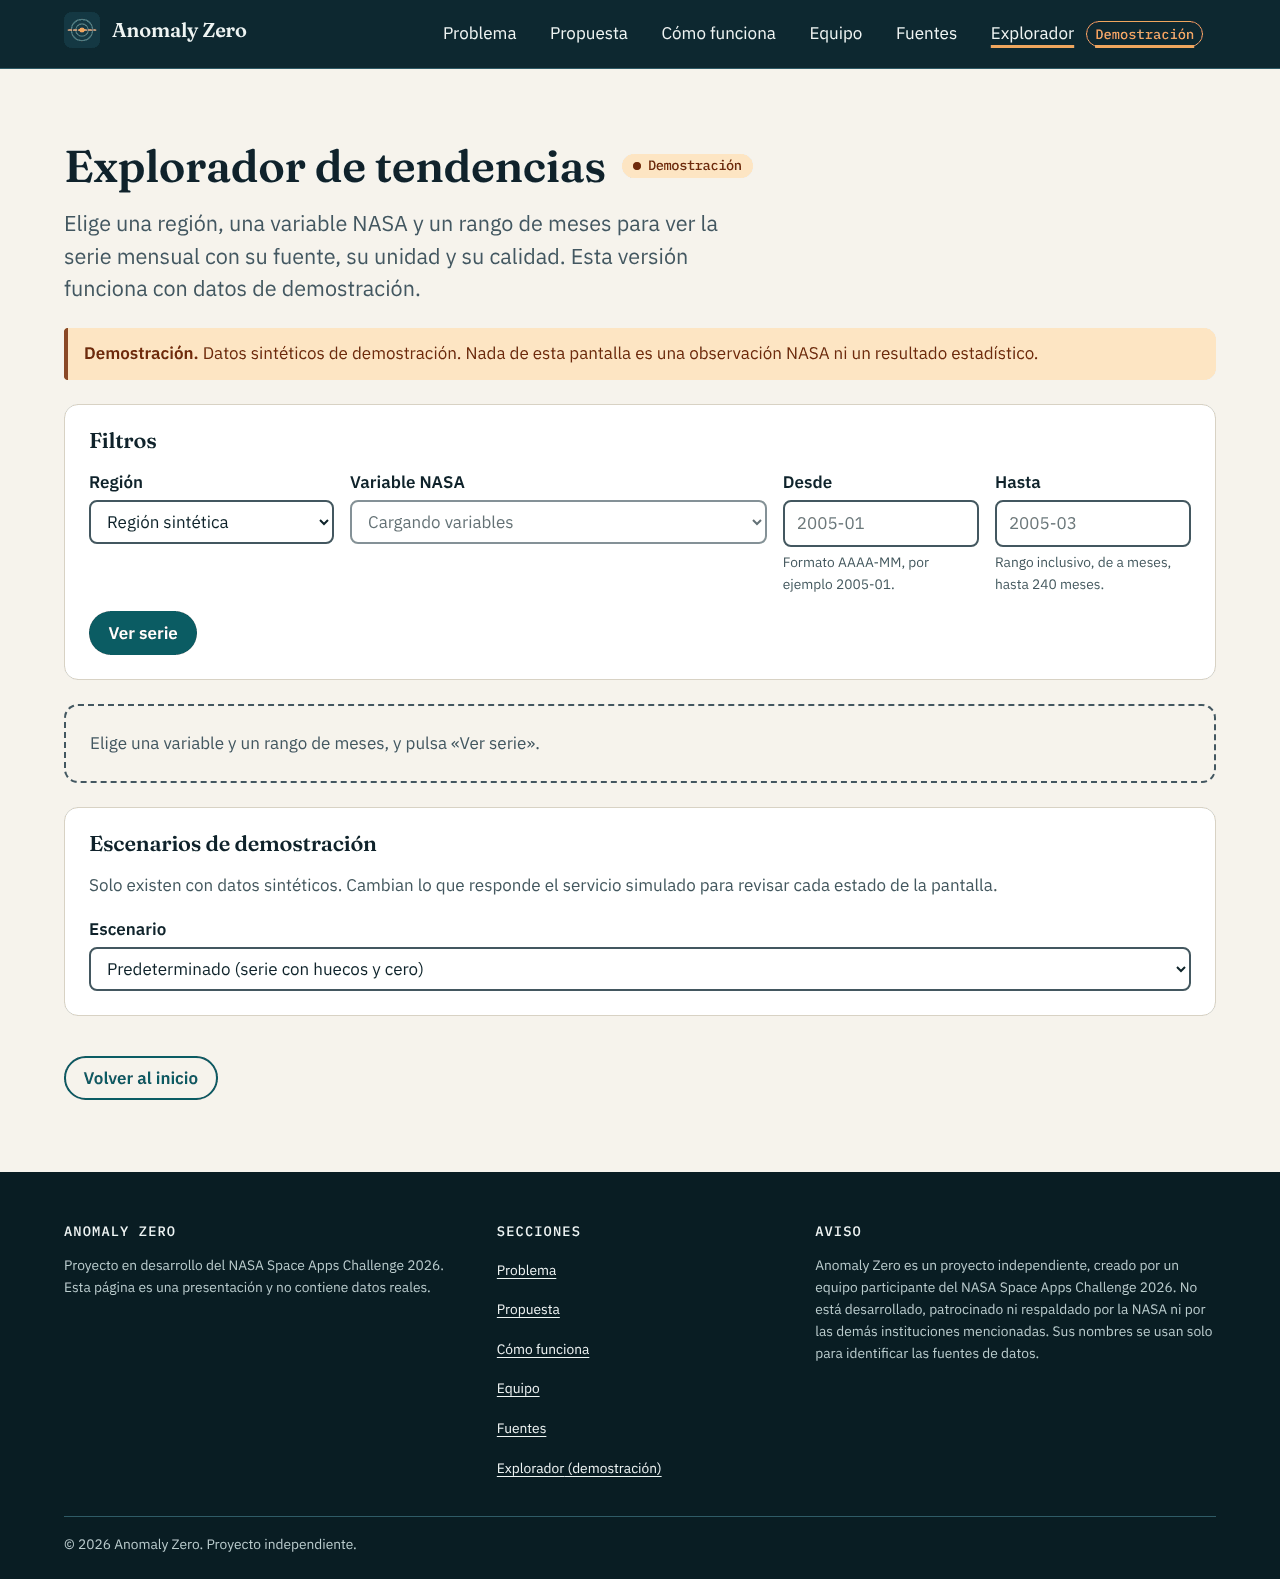
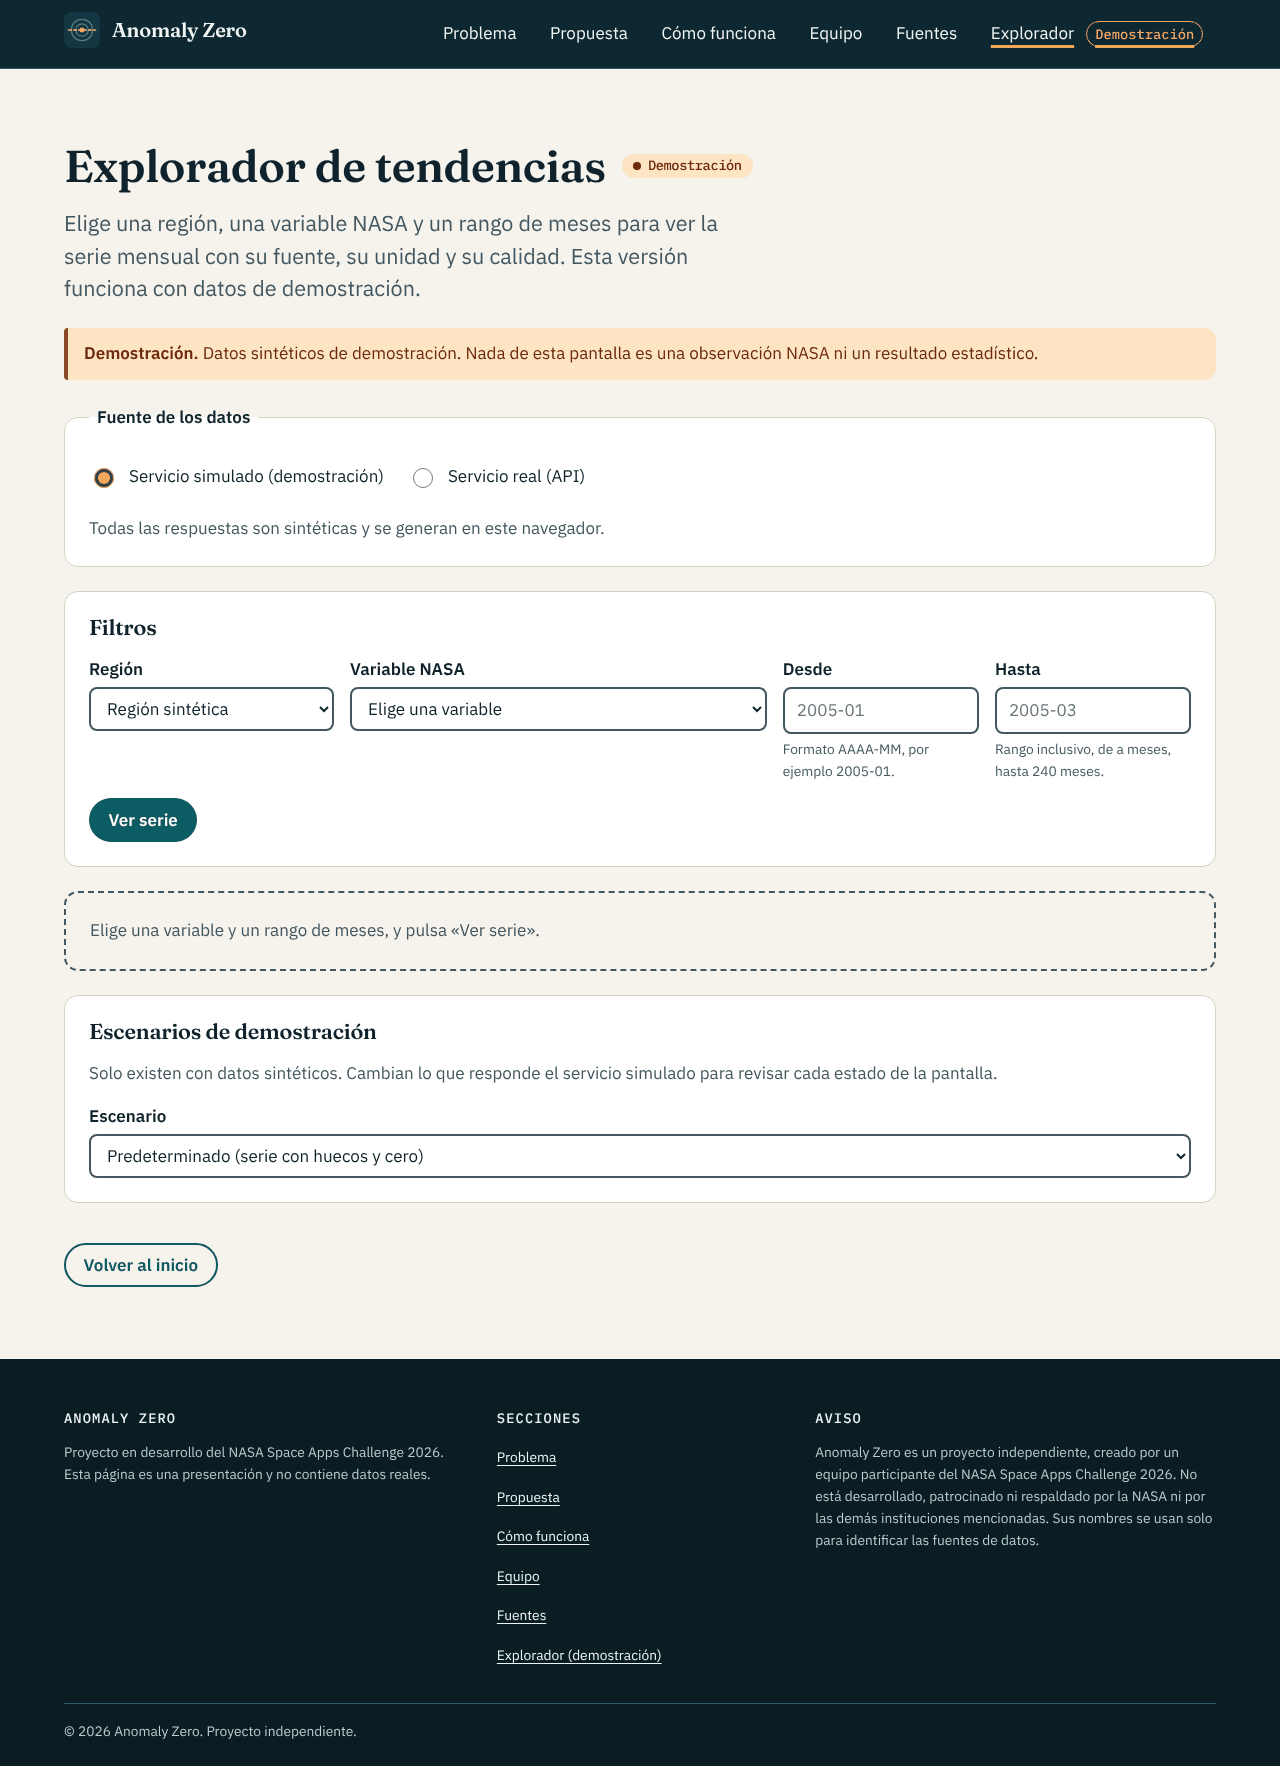
docs: FE-04 con fuente real, dos procesos, integracion y capturas actualizadas
Actualiza la guia (fuente simulada o real, comandos de dos procesos y proxy,
prueba de integracion, decisiones segun la tarjeta del 15-11, coordinacion con
FUL-130) y regenera las capturas, ahora tambien de la API real con y sin
snapshot y sin conexion.

Claude-Session: https://claude.ai/code/session_01BasWzmRWkbL87sk6JNERaq

diff --git a/docs/fe-04-explorer-implementacion.md b/docs/fe-04-explorer-implementacion.md
@@ -7,32 +7,73 @@ Este documento explica **qué se construyó**, **cómo se ejecuta**, **qué endp
 ## 1. Resumen
 
 - `/explore` es ahora una pantalla real dentro de la app React existente (no hay una app nueva). El marcador de posición anterior se eliminó.
-- Toda la pantalla lee datos por **una sola puerta**: la interfaz `ExploreApi`. Hay dos implementaciones:
-  - `MockExploreApi` (predeterminada en desarrollo y QA): respuestas **explícitamente sintéticas** que cumplen el OpenAPI.
-  - `HttpExploreApi` (separada): cliente `fetch` para una integración futura con FastAPI. No es obligatorio conectarlo a producción en esta tarjeta.
+- Toda la pantalla lee datos por **una sola puerta**: la interfaz `ExploreApi`. Hay dos fuentes, y la persona puede cambiar entre ellas con un selector visible ("Fuente de los datos"):
+  - **Servicio simulado** (`MockExploreApi`): respuestas **explícitamente sintéticas** que cumplen el OpenAPI. Es la fuente por defecto de desarrollo y QA, rotulada de forma permanente ("Demostración").
+  - **Servicio real** (`HttpExploreApi`): cliente `fetch` tipado hacia `/api/v1`. En desarrollo Vite reenvía `/api/v1` y `/health` al FastAPI local (proxy, mismo origen, sin CORS abierto).
+- **Nunca hay respaldo automático**: si la API real falla o no responde, la pantalla muestra el error. No pasa sola a datos simulados. Cambiar de fuente descarta todo lo cargado y los filtros (los identificadores de un servicio no existen en el otro).
 - El mapa (MapLibre GL JS) y el gráfico (Recharts) se cargan de forma diferida junto con la ruta `/explore`. El mapa solo se descarga si existe una capa dibujable.
-- Los análisis estadísticos siguen **deshabilitados**: `POST /analyses` se muestra como no disponible.
+- Los análisis estadísticos siguen **deshabilitados**: `POST /analyses` se muestra como no disponible y el modo real no lo llama.
 - Mientras el backend no publique `raster_layers`, el mapa dice con honestidad que no hay capa. No dibuja frames falsos, contorno de cuenca, leyenda científica ni herramientas por píxel.
 
 ## 2. Cómo ejecutarlo
+
+### Solo el frontend (servicio simulado)
 
 Desde `frontend/`:
 
 ```bash
 npm ci
-npm run dev        # http://localhost:5173/explore, con el servicio simulado
+npm run dev        # http://localhost:5173/explore (fuente: servicio simulado)
 npm run lint       # oxlint
-npm test           # vitest (183 pruebas)
+npm test           # vitest (189 pruebas; las 6 de integración real se omiten si no hay backend)
 npm run build      # tsc -b + vite build
 ```
 
-Para apuntar al backend integrado en `dev` (opcional, solo para comprobar el adaptador HTTP):
+### Frontend + FastAPI (dos procesos, API real)
+
+Terminal 1, desde la raíz del repositorio (backend):
 
 ```bash
-VITE_EXPLORE_API=http VITE_API_BASE_URL=http://localhost:8000/api/v1 npm run dev
+uv sync --group dev
+uv run uvicorn backend.app.main:app --port 8000
 ```
 
-Sin `VITE_EXPLORE_API=http` se usa siempre el servicio simulado. `VITE_API_BASE_URL` por defecto es `/api/v1`.
+Sin snapshot, el backend responde con honestidad: `/products` marca todo como `unavailable` y `/series` responde `200 no_data`.
+
+Con un snapshot configurado en **el proceso del backend** se sirve la serie puntual de IMERG 2005. Para probar sin datos NASA, genera un snapshot **sintético** (valores ficticios, el backend responde `synthetic: true`):
+
+```bash
+uv run --group dev python scripts/make_synthetic_imerg_snapshot.py data/processed/ful116-sintetico
+ANOMALY_ZERO_IMERG_SNAPSHOT=data/processed/ful116-sintetico/processed/imerg_2005_point_snapshot.json \
+  uv run uvicorn backend.app.main:app --port 8000
+```
+
+El snapshot real de DS-03 (`data/processed/ful116/imerg_2005_point_snapshot.json`) no se versiona; si existe, el backend lo usa por defecto. Los resultados con datos reales se informan por separado.
+
+Terminal 2 (`frontend/`):
+
+```bash
+npm run dev
+```
+
+Abre `http://localhost:5173/explore?fuente=api`. Vite reenvía `/api/v1` y `/health` a `http://127.0.0.1:8000`; para otro destino, `API_PROXY_TARGET=http://127.0.0.1:9000 npm run dev` (variable del proceso de Vite, no `VITE_*`, no llega al navegador). Para que la fuente real sea la predeterminada de esa compilación: `VITE_EXPLORE_API=http`.
+
+Comprobación rápida por el proxy:
+
+```bash
+curl http://localhost:5173/health
+curl "http://localhost:5173/api/v1/regions"
+```
+
+### Prueba de integración real (frontend ↔ backend)
+
+Con el backend en marcha (y, si quieres, el proxy de Vite):
+
+```bash
+EXPLORE_LIVE_API=http://127.0.0.1:5173/api/v1 npm test --prefix frontend -- liveBackend
+```
+
+Usa el mismo cliente HTTP tipado que la pantalla y valida cada respuesta contra el OpenAPI real: catálogo, productos, serie (cero, nulo, unidad `mm/hr`, `point_sample`), `404` y `422`. Funciona con y sin snapshot. Sin `EXPLORE_LIVE_API` se omite (así el CI no necesita Python en el job del frontend).
 
 ### Parámetros de la URL
 
@@ -40,13 +81,15 @@ Los filtros viven en la URL para poder compartir una vista. Se validan como entr
 
 | Parámetro | Ejemplo | Qué hace |
 |---|---|---|
+| `fuente` | `api` o `demo` | Fuente de datos. Sin el parámetro, manda `VITE_EXPLORE_API` (por defecto, simulada) |
 | `region` | `REG01` | Región elegida. Si no existe en el catálogo, error en el campo y **no** se consulta la serie |
 | `product` | `P02` | Variable NASA elegida (mismo tratamiento) |
 | `start`, `end` | `2005-01`, `2005-03` | Rango mensual `AAAA-MM`, hasta 240 meses |
 | `month` | `2005-02` | Mes mostrado en el mapa (si hay capas) |
-| `demo` | `error-503` | Escenario del servicio simulado (solo existe en modo simulado) |
+| `demo` | `error-503` | Escenario del servicio simulado (solo existe con `fuente=demo`) |
 
-Vista de referencia: `/explore?region=REG01&product=P02&start=2005-01&end=2005-03`
+Vista de referencia (simulada): `/explore?region=REG01&product=P02&start=2005-01&end=2005-03`.
+Vista de referencia (API real con snapshot): `/explore?fuente=api&region=murray-darling-basin&product=P02&start=2005-01&end=2005-12`.
 
 ## 3. Estados de FE-03 y dónde verlos
 
@@ -63,9 +106,17 @@ Vista de referencia: `/explore?region=REG01&product=P02&start=2005-01&end=2005-0
 | **E9** Capas mixtas, mes con capa | `raster_layers` mixtas, mes `available` | `...&demo=capas-mixtas` | `05-capa-demo-enero-*` |
 | **E10** Capas mixtas, mes sin capa | mes seleccionado `unavailable` | `...&demo=capas-mixtas&month=2005-02` | `06-mes-sin-capa-*` |
 
-Todas las capturas están en `docs/fe-04/capturas/` en versión escritorio (1280 px) y móvil (390 px), y las generó la aplicación compilada, no un maquetado.
+Fuente real (API), capturadas con FastAPI local detrás del proxy de Vite:
 
-Lo que **no** se puede mostrar como captura: una serie real con `synthetic: false` y valores, porque los valores reales de DS-03 viven en un snapshot local que Git ignora. Lo que sí se comprueba por prueba automática es la parte que importa: con datos reales no aparece el aviso de "sintético" ni los escenarios de demostración.
+| Situación | Cómo verla | Captura |
+|---|---|---|
+| API real con snapshot **sintético** (`synthetic: true`): serie puntual con cero y huecos, aviso de datos sintéticos | backend con snapshot sintético y `/explore?fuente=api&region=murray-darling-basin&product=P02&start=2005-01&end=2005-12` | `08-api-con-snapshot-sintetico-*` |
+| API real **sin snapshot**: `200 no_data` honesto, productos no disponibles, sin aviso sintético | backend sin snapshot, misma dirección | `09-api-sin-snapshot-*` |
+| API real **sin conexión**: error de conexión con "Reintentar", sin pasar a datos simulados | `/explore?fuente=api` con el backend apagado | `10-api-sin-conexion-*` |
+
+Todas las capturas están en `docs/fe-04/capturas/` en versión escritorio (1280 px) y móvil (390 px), y las generó la aplicación compilada, no un maquetado. Ninguna usa datos NASA reales.
+
+Lo que **no** se puede mostrar como captura: una serie real con `synthetic: false` y valores, porque los valores reales de DS-03 viven en un snapshot local que Git ignora. Lo que sí se comprueba por prueba automática es la parte que importa: con la fuente real no aparece el aviso de "sintético" salvo que la respuesta lo traiga, ni los escenarios de demostración.
 
 ## 4. Qué endpoint alimenta qué componente
 
@@ -89,7 +140,7 @@ Lo que **no** se puede mostrar como captura: una serie real con `synthetic: fals
 
 ## 6. Pruebas
 
-Total: **10 archivos, 183 pruebas** (`src/test/`).
+Total: **11 archivos, 189 pruebas** que corren siempre, más **6 de integración real** que se activan con `EXPLORE_LIVE_API` (`src/test/`).
 
 | Archivo | Qué comprueba |
 |---|---|
@@ -99,10 +150,13 @@ Total: **10 archivos, 183 pruebas** (`src/test/`).
 | `explore/httpApi.test.ts` | Cliente HTTP contra las respuestas reales de `dev`, incluida la ruta inexistente (`{"detail":"Not Found"}` se trata como falla de red) |
 | `explore/useResource.test.tsx` | Carga, cancelación de peticiones obsoletas |
 | `explore/components.test.tsx` | Cada componente, incluida la ausencia honesta del mapa |
-| `explore/page.test.tsx` | Pantalla completa: flujos, validación, errores, modo HTTP con respuestas reales, capas de demostración y `axe` |
+| `explore/page.test.tsx` | Pantalla completa: flujos, validación, errores, selector de fuente (sin respaldo automático, cambio de fuente descarta lo anterior), modo HTTP con respuestas reales, capas de demostración y `axe` |
+| `explore/liveBackend.test.ts` | **Integración real** contra FastAPI en ejecución (se omite sin `EXPLORE_LIVE_API`) |
 | `app.test.tsx` | Navegación desde la landing (CTA, barra y pie) |
 
-CI: `Checks` ahora ejecuta `npm test` del frontend antes de compilar (paso "Frontend tests", en un commit aparte).
+Verificado en este entorno (reporte separado de los datos reales): FastAPI local **sin snapshot** y **con snapshot sintético** pasan las 6 pruebas de integración a través del proxy de Vite. **No** se ejecutó contra el snapshot real de DS-03, que no está en el repositorio.
+
+CI: `Checks` ejecuta `npm test` del frontend antes de compilar (paso "Frontend tests", en un commit aparte). La integración real no corre en CI.
 
 ## 7. Diferencias y observaciones del contrato
 
@@ -114,24 +168,29 @@ CI: `Checks` ahora ejecuta `npm test` del frontend antes de compilar (paso "Fron
 6. **`/analyses`**: no está en `dev` (BE-05, PR #31, no integrada). Si existiera, la pantalla debería seguir mostrando `ANALYSIS_METHOD_UNAVAILABLE` con honestidad.
 7. **Tarjeta vs FE-03**: la tabla antigua de la tarjeta decía "deshabilitar consulta" para productos no disponibles, y FE-03 los deja consultables (para ver el `200 no_data` real). Se siguió FE-03 (D10).
 
-## 8. Decisiones abiertas
+## 8. Decisiones
 
-| Id | Tema | Qué se hizo | Quién decide |
-|---|---|---|---|
-| D2 | Textos científicos (calidad, soporte espacial, análisis, "muestra NASA exploratoria") | Quedan como **propuesta** en `content/exploreCopy.ts`, en un solo archivo | César |
-| D3 | Librería de mapa y de gráficos | MapLibre GL JS 6.18.0 y Recharts 3.10.1, como **recomendación** de la tarjeta | César (aprobación final) |
-| D9 | Marcador del punto de muestra en el mapa sin capa | **No** se dibuja: ausencia honesta, como en los wireframes | César |
-| D10 | Productos `unavailable` | Se pueden consultar | César / Alaín |
-| Mes | Entrada del mes como texto `AAAA-MM` | Campo de texto con validación, en vez de `<input type="month">` (soporte irregular) | César (UX) |
-| CI | Paso de pruebas del frontend en `Checks` | Agregado en un commit aparte, fácil de revertir | Equipo |
-| Demo | Botón auxiliar que muestra el `409` | Solo en modo simulado; en modo HTTP no existe y no se llama a `/analyses` | César |
+La tarjeta (decisión de César del 15-11) aprueba FE-03 como base de UX, MapLibre GL JS + Recharts, la ruta diferida y D1 a D9 de FE-03 con condiciones. Estado frente a esta implementación:
+
+| Id | Tema | Estado |
+|---|---|---|
+| D1, D5, D6, D7, D8 | Flujo y 10 estados, análisis no disponible, filtros en URL, gráfico antes que mapa en móvil, mocks de E9/E10 | Aprobadas e implementadas |
+| D2 | Copy científico, condicionado a usarlo según el estado real de la respuesta | Implementado en `content/exploreCopy.ts` (un solo archivo). Pendiente su revisión de textos |
+| D3 | MapLibre GL JS 6.18.0 (directo) y Recharts 3.10.1 | Aprobado. Recharts coincide con la PR #33 de FUL-130 (ver sección 12) |
+| D4 | Encuadre del mapa sin geometría | Extensión ilustrativa solo para la demostración sintética, rotulada. Sin límite de cuenca |
+| D9 | Marcador «Punto de muestra» | **No implementado.** La tarjeta lo permite solo con coordenadas de una respuesta auténtica. Hoy el punto se muestra como texto (celda y coordenadas) en el aviso de soporte. Pendiente opcional |
+| D10 | Productos `unavailable` | Se pueden consultar (FE-03), para mostrar el `200 no_data` real que exige la tarjeta sin snapshot. Pendiente de confirmar |
+| Mes | Entrada del mes como texto `AAAA-MM` | Campo de texto con validación, en vez de `<input type="month">` (soporte irregular) |
+| Fuente | Selector visible, sin respaldo automático | La fuente predeterminada es la simulada (el sitio público no tiene backend desplegado). Pendiente de confirmar si la real debe ser la predeterminada al integrar |
+| CI | Paso de pruebas del frontend en `Checks` | Agregado en un commit aparte, fácil de revertir |
+| Demo | Botón auxiliar que muestra el `409` | Solo con la fuente simulada; con la real no existe y no se llama a `/analyses` |
 
 ## 9. Tamaño del paquete
 
 | Pieza | Tamaño | Cuándo se descarga |
 |---|---|---|
 | Entrada de la app | ~283 kB (90 kB gzip) | Siempre |
-| Ruta `/explore` (con Recharts) | ~424 kB (124 kB gzip) | Al abrir `/explore` |
+| Ruta `/explore` (con Recharts) | ~427 kB (125 kB gzip) | Al abrir `/explore` |
 | Mapa (MapLibre) | ~1,07 MB (291 kB gzip) + worker ~519 kB | Solo si hay una capa dibujable (hoy, solo la demostración sintética) |
 
 Vite avisa de chunks de más de 500 kB; es un aviso, no un error. El mapa no se descarga en modo real mientras el backend no publique capas.
@@ -147,18 +206,26 @@ frontend/src/features/explore/
   data/                      ExploreApi, simulado, cliente HTTP, fixtures sintéticas
   hooks/                     useResource, useExplorer
   lib/                       meses, formato, modelo del gráfico, resolución del mapa, URL
-  components/                filtros, gráfico, tabla, mapa, avisos, procedencia, calidad, errores
+  components/                filtros, selector de fuente, gráfico, tabla, mapa, avisos, procedencia, calidad, errores
 frontend/src/test/explore/   pruebas
 docs/fe-04/capturas/         capturas escritorio y móvil
+frontend/vite.config.ts      proxy de desarrollo /api/v1 y /health
+scripts/make_synthetic_imerg_snapshot.py   snapshot IMERG sintético para probar contra FastAPI
 ```
 
-## 11. Cómo pasar a la integración real
+## 11. Qué falta para la integración real
 
-1. Levantar el backend de `dev` y arrancar el frontend con `VITE_EXPLORE_API=http`.
-2. Mientras el backend no publique `raster_layers`, el mapa seguirá en ausencia honesta. No hay que tocar la pantalla: cuando lleguen descriptores `available` con su bbox y URL de capa, hay que entregar un `RasterResolver` real al cliente HTTP (hoy devuelve `null` a propósito).
-3. Cuando exista `POST /analyses` aprobado, se cambia `capabilities.analyses` del cliente HTTP y se agrega la vista del resultado. Antes de eso, no.
+Hecho: cliente HTTP tipado, proxy de Vite, selector de fuente, prueba de integración real con y sin snapshot, procedimiento de dos procesos (sección 2).
 
-## 12. Revisiones solicitadas
+Pendiente, a propósito, hasta que lo apruebe quien corresponda:
 
-- **César**: UX y ciencia (textos D2, soporte puntual, calidad), aprobación del stack (D3) y de D9/D10.
-- **Alaín**: revisión del contrato (sección 7).
+1. **Despliegue**: no se afirma que el proyecto esté desplegado. En un sitio sin backend, `fuente=api` muestra el error de conexión; es lo esperado.
+2. **Capas raster**: cuando el backend publique `raster_layers` `available`, hay que entregar un `RasterResolver` real al cliente HTTP (hoy devuelve `null` a propósito: el modo real nunca dibuja).
+3. **Análisis**: cuando exista `POST /analyses` aprobado (BE-05, PR #31), se cambia `capabilities.analyses` del cliente HTTP y se agrega la vista del resultado. Antes de eso, no.
+4. **Datos reales de DS-03**: probar con el snapshot real verificado y reportarlo aparte (no hay snapshot en el repositorio).
+
+## 12. Coordinación y revisiones solicitadas
+
+- **FUL-130 (César, PR #33)**: agrega Recharts 3.10.1 como dependencia y el módulo `scientific-series` (`ScientificSeriesPanel`). Esta rama también agrega Recharts 3.10.1 (misma versión exacta) y su propio gráfico (`TimeSeriesChart`). Al integrar, `package.json` y `package-lock.json` darán conflicto: se conserva una sola entrada de Recharts y el resto de las dependencias de esta rama (`maplibre-gl`, `ajv`, `ajv-formats`, `yaml`). Falta decidir si `TimeSeriesChart` se reemplaza por `ScientificSeriesPanel` o conviven.
+- **César**: UX y ciencia (D2, D9, D10), y la decisión de FUL-130 anterior.
+- **Alaín**: contrato (sección 7) y el proxy de Vite sin CORS abierto en FastAPI.
